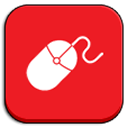
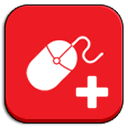
Add "Open Link in New Tab" modes and renamed to Long Press New Tab Plus
New actions that behave like Firefox's "Open Link in New Tab" /
Ctrl+Click:
- Open Link in New Tab (Background) and (Foreground)
- The tab is placed right after the current tab and any tabs already
  opened from it, not at the end of the tab strip
- The source tab is set as the opener
- The tab opens in the same container as the source tab

Changed region(s): [[0.5625, 0.5625, 0.875, 0.875]]

diff --git a/options.html b/options.html
@@ -14,8 +14,10 @@
 				<label style="font-size:13px;width:225px;display:inline-block">Left mouse button press</label>
 				<select id="dragactionleft" class="selectclass">
 					<option value="none">NONE</option>
-					<option value="bg" selected="">New Tab (Background)</option>
-					<option value="new">New Tab (Foreground)</option>
+					<option value="bgrel" selected="">Open Link in New Tab (Background)</option>
+					<option value="newrel">Open Link in New Tab (Foreground)</option>
+					<option value="bg">New Tab at End (Background)</option>
+					<option value="new">New Tab at End (Foreground)</option>
 					<option value="crnt">Current Tab</option>
 					<option value="save">Save Link</option>
 					<option value="copy">Copy</option>
@@ -31,8 +33,10 @@
 				<label style="font-size:13px;width:225px;display:inline-block">Middle mouse button press</label>
 				<select id="dragactionmiddle" class="selectclass">
 					<option value="none" selected>NONE</option>
-					<option value="bg">New Tab (Background)</option>
-					<option value="new">New Tab (Foreground)</option>
+					<option value="bgrel">Open Link in New Tab (Background)</option>
+					<option value="newrel">Open Link in New Tab (Foreground)</option>
+					<option value="bg">New Tab at End (Background)</option>
+					<option value="new">New Tab at End (Foreground)</option>
 					<option value="crnt">Current Tab</option>
 					<option value="save">Save Link</option>
 					<option value="copy">Copy</option>
@@ -48,8 +52,10 @@
 				<label style="font-size:13px;width:225px;display:inline-block">Right mouse button press</label>
 				<select id="dragactionright" class="selectclass">
 					<option value="none" selected>NONE</option>
-					<option value="bg">New Tab (Background)</option>
-					<option value="new">New Tab (Foreground)</option>
+					<option value="bgrel">Open Link in New Tab (Background)</option>
+					<option value="newrel">Open Link in New Tab (Foreground)</option>
+					<option value="bg">New Tab at End (Background)</option>
+					<option value="new">New Tab at End (Foreground)</option>
 					<option value="crnt">Current Tab</option>
 					<option value="save">Save Link</option>
 					<option value="copy">Copy</option>
@@ -79,8 +85,10 @@
 					<label style="font-size:13px;width:55px;display:inline-block">Up</label>
 					<select id="ddragactionup" class="selectclass">
 						<option value="none" selected>NONE</option>
-						<option value="bg">New Tab (Background)</option>
-						<option value="new">New Tab (Foreground)</option>
+						<option value="bgrel">Open Link in New Tab (Background)</option>
+						<option value="newrel">Open Link in New Tab (Foreground)</option>
+						<option value="bg">New Tab at End (Background)</option>
+						<option value="new">New Tab at End (Foreground)</option>
 						<option value="crnt">Current Tab</option>
 						<option value="save">Save Link</option>
 						<option value="copy">Copy</option>
@@ -96,8 +104,10 @@
 					<label style="font-size:13px;width:55px;display:inline-block">Down</label>
 					<select id="ddragactiondown" class="selectclass">
 						<option value="none" selected>NONE</option>
-						<option value="bg">New Tab (Background)</option>
-						<option value="new">New Tab (Foreground)</option>
+						<option value="bgrel">Open Link in New Tab (Background)</option>
+						<option value="newrel">Open Link in New Tab (Foreground)</option>
+						<option value="bg">New Tab at End (Background)</option>
+						<option value="new">New Tab at End (Foreground)</option>
 						<option value="crnt">Current Tab</option>
 						<option value="save">Save Link</option>
 						<option value="copy">Copy</option>
@@ -113,8 +123,10 @@
 					<label style="font-size:13px;width:55px;display:inline-block">Left</label>
 					<select id="ddragactionleft" class="selectclass">
 						<option value="none" selected>NONE</option>
-						<option value="bg">New Tab (Background)</option>
-						<option value="new">New Tab (Foreground)</option>
+						<option value="bgrel">Open Link in New Tab (Background)</option>
+						<option value="newrel">Open Link in New Tab (Foreground)</option>
+						<option value="bg">New Tab at End (Background)</option>
+						<option value="new">New Tab at End (Foreground)</option>
 						<option value="crnt">Current Tab</option>
 						<option value="save">Save Link</option>
 						<option value="copy">Copy</option>
@@ -130,8 +142,10 @@
 					<label style="font-size:13px;width:55px;display:inline-block">Right</label>
 					<select id="ddragactionright" class="selectclass">
 						<option value="none" selected>NONE</option>
-						<option value="bg">New Tab (Background)</option>
-						<option value="new">New Tab (Foreground)</option>
+						<option value="bgrel">Open Link in New Tab (Background)</option>
+						<option value="newrel">Open Link in New Tab (Foreground)</option>
+						<option value="bg">New Tab at End (Background)</option>
+						<option value="new">New Tab at End (Foreground)</option>
 						<option value="crnt">Current Tab</option>
 						<option value="save">Save Link</option>
 						<option value="copy">Copy</option>

diff --git a/js/background.js b/js/background.js
@@ -38,7 +38,7 @@ function loadOption(){
 		optobj = JSON.parse(lclobj);
 	}else{
 		optobj.excpetoptionarray = [];
-		optobj.l = "bg";
+		optobj.l = "bgrel";
 		optobj.m = "none";
 		optobj.r = "none";
 		optobj.waittime = 350;
@@ -61,6 +61,22 @@ function downloadItems(url){
     var opt = {saveAs:true,url:url};
     chrome.downloads.download(opt,function(dlid){
     });
+}
+// Open a tab the way Firefox's "Open Link in New Tab" does: linked to the
+// source tab, placed after the tabs already opened from it, in the same container.
+function openRelatedTab(url,srctab,active){
+	chrome.tabs.query({windowId:srctab.windowId},function(tabs){
+		tabs.sort(function(a,b){return a.index - b.index});
+		var idx = srctab.index + 1;
+		while(tabs[idx] && tabs[idx].openerTabId === srctab.id){
+			idx++;
+		}
+		var opt = {url:url,active:active,index:idx,openerTabId:srctab.id,windowId:srctab.windowId};
+		if(srctab.cookieStoreId){
+			opt.cookieStoreId = srctab.cookieStoreId;
+		}
+		chrome.tabs.create(opt);
+	});
 }
 function copyStrings(str){
     var inpt = document.createElement("input");
@@ -97,6 +113,12 @@ chrome.runtime.onMessage.addListener(function(request, sender, sendResponse) {
     }else if(request.tab == "newbg"){
 		var url = request.url;
 		chrome.tabs.create({url:url,active:false});
+        sendResponse({});
+    }else if(request.tab == "newbgrel"){
+		openRelatedTab(request.url,sender.tab,false);
+        sendResponse({});
+    }else if(request.tab == "newrel"){
+		openRelatedTab(request.url,sender.tab,true);
         sendResponse({});
     }else if(request.tab == "save"){
 		var url = request.url;

diff --git a/js/contentscript.js b/js/contentscript.js
@@ -177,6 +177,10 @@ function clickEmulate(elem,button,wurl){
 		clcik(elem,optobj.r,optobj.rurl);	
 	}else if(button === "bg"){
 		chrome.runtime.sendMessage({tab: "newbg",url:elem.href});
+	}else if(button === "bgrel"){
+		chrome.runtime.sendMessage({tab: "newbgrel",url:elem.href});
+	}else if(button === "newrel"){
+		chrome.runtime.sendMessage({tab: "newrel",url:elem.href});
 	}else if(button === "new"){
 		chrome.runtime.sendMessage({tab: "new",url:elem.href});
 	}else if(button === "crnt"){
@@ -198,6 +202,12 @@ function clickEmulate(elem,button,wurl){
 		if(no === "bg"){
 			flg = false;
 			chrome.runtime.sendMessage({tab:"newbg",url:elem.href});
+		}else if(no === "bgrel"){
+			flg = false;
+			chrome.runtime.sendMessage({tab:"newbgrel",url:elem.href});
+		}else if(no === "newrel"){
+			flg = false;
+			chrome.runtime.sendMessage({tab:"newrel",url:elem.href});
 		}else if(no === "wnd"){
 			shift = true;					
 		}else if(no === "new"){

diff --git a/js/options.js b/js/options.js
@@ -2,7 +2,7 @@ var excptidex = -1;
 var excpetoptionarray = [];
 var optobj = {};
 optobj.excpetoptionarray = [];
-optobj.l = "bg";
+optobj.l = "bgrel";
 optobj.m = "none";
 optobj.r = "none";
 optobj.waittime = 350;
